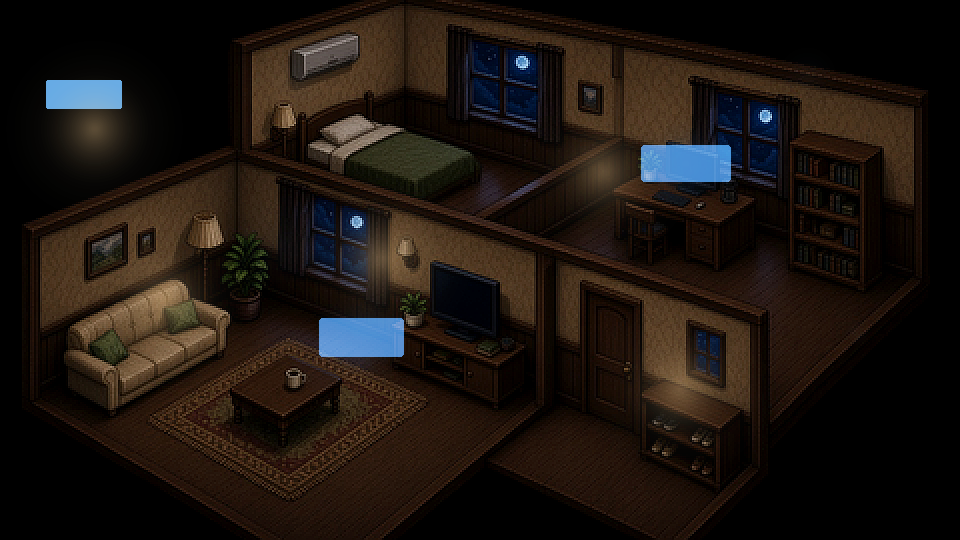
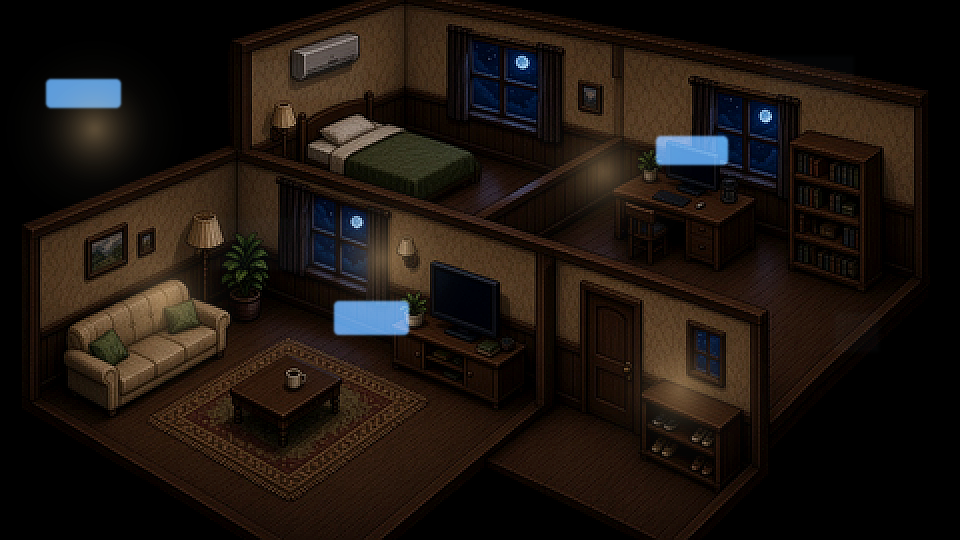
Clip screen blooms to panels; hide window glow when room is off
TV/monitor/AC use clipped radial fills only (no external Glow). Moon
only when a device is on; scene clipped to cutaway bounds. Nudge TV and
monitor anchors; refresh house-pilot previews.

diff --git a/Sources/MijiaBarApp/HouseView.swift b/Sources/MijiaBarApp/HouseView.swift
@@ -147,6 +147,8 @@ struct HouseRoomOverlays: View {
     let lighting: RoomModuleLighting
     let artSize: CGSize
 
+    private var roomActive: Double { max(lighting.lampLevels.max() ?? 0, lighting.tv, lighting.ac) }
+
     var body: some View {
         ZStack {
             windowMoon
@@ -155,23 +157,20 @@ struct HouseRoomOverlays: View {
             lampGlows
             warmWash
         }
+        .frame(width: artSize.width, height: artSize.height)
+        .clipped()
         .allowsHitTesting(false)
     }
 
-    /// 月光只在窗框内淡淡铺开，避免大块漂浮蓝光
-    private var windowStrength: Double {
-        let active = max(lighting.lampLevels.max() ?? 0, lighting.tv, lighting.ac)
-        return min(0.32, 0.04 + active * 0.14 + lighting.cozy * 0.08)
-    }
-
+    /// 仅在本室有设备亮时、窗框内淡淡月光（全关时不画，避免漂浮蓝光）
     @ViewBuilder private var windowMoon: some View {
-        if let r = anchors.window?.cgRect {
-            let k = windowStrength
+        if roomActive > 0.01, let r = anchors.window?.cgRect {
+            let k = min(0.22, 0.06 + roomActive * 0.14)
             let w = r.width * artSize.width, h = r.height * artSize.height
-            Ellipse()
-                .fill(RadialGradient(colors: [Color(red: 0.62, green: 0.78, blue: 0.92).opacity(0.28), .clear],
-                                     center: .center, startRadius: 0, endRadius: max(w, h) * 0.42))
-                .frame(width: w * 0.92, height: h * 0.88)
+            RoundedRectangle(cornerRadius: 2)
+                .fill(RadialGradient(colors: [Color(red: 0.62, green: 0.78, blue: 0.92).opacity(0.22), .clear],
+                                     center: .center, startRadius: 0, endRadius: max(w, h) * 0.48))
+                .frame(width: w, height: h)
                 .position(x: r.midX * artSize.width, y: r.midY * artSize.height)
                 .blendMode(.screen).opacity(k)
         }
@@ -180,29 +179,32 @@ struct HouseRoomOverlays: View {
     @ViewBuilder private var acGlow: some View {
         if lighting.ac > 0, let r = anchors.ac?.cgRect {
             let k = lighting.ac
-            ZStack {
-                RoundedRectangle(cornerRadius: 3)
-                    .fill(LinearGradient(colors: [Theme.cool.opacity(0.45), Theme.cool.opacity(0.22)], startPoint: .top, endPoint: .bottom))
-                Glow(Theme.cool, 0.22 * k, diameter: 36, softness: 28)
-            }
-            .frame(width: r.width * artSize.width, height: r.height * artSize.height)
-            .position(x: r.midX * artSize.width, y: r.midY * artSize.height)
-            .blendMode(.screen).opacity(0.55 * k)
+            let w = r.width * artSize.width, h = r.height * artSize.height
+            RoundedRectangle(cornerRadius: 3)
+                .fill(RadialGradient(colors: [Theme.cool.opacity(0.32 * k), Theme.cool.opacity(0.12 * k), .clear],
+                                     center: .top, startRadius: 0, endRadius: h * 1.2))
+                .frame(width: w, height: h)
+                .clipShape(RoundedRectangle(cornerRadius: 3))
+                .position(x: r.midX * artSize.width, y: r.midY * artSize.height)
+                .blendMode(.screen)
         }
     }
 
     @ViewBuilder private var tvGlow: some View {
         if lighting.tv > 0, let r = anchors.tv?.cgRect {
             let k = lighting.tv
-            ZStack {
-                RoundedRectangle(cornerRadius: 2)
-                    .fill(LinearGradient(colors: [Color(red: 0.35, green: 0.62, blue: 0.92).opacity(0.5), Color(red: 0.18, green: 0.42, blue: 0.72).opacity(0.35)],
-                                         startPoint: .topLeading, endPoint: .bottomTrailing))
-                Glow(Theme.cool, 0.28 * k, diameter: min(r.width * artSize.width * 1.1, 52), softness: 32)
-            }
-            .frame(width: r.width * artSize.width, height: r.height * artSize.height)
-            .position(x: r.midX * artSize.width, y: r.midY * artSize.height)
-            .blendMode(.screen).opacity(0.72 * k)
+            let w = r.width * artSize.width, h = r.height * artSize.height
+            RoundedRectangle(cornerRadius: 4)
+                .fill(RadialGradient(colors: [
+                    Color(red: 0.48, green: 0.72, blue: 0.96).opacity(0.38 * k),
+                    Color(red: 0.22, green: 0.48, blue: 0.78).opacity(0.2 * k),
+                    Color(red: 0.12, green: 0.32, blue: 0.62).opacity(0.08 * k),
+                ], center: .center, startRadius: 0, endRadius: max(w, h) * 0.58))
+                .overlay(RoundedRectangle(cornerRadius: 4).stroke(Color.white.opacity(0.1 * k), lineWidth: 0.5))
+                .frame(width: w, height: h)
+                .clipShape(RoundedRectangle(cornerRadius: 4))
+                .position(x: r.midX * artSize.width, y: r.midY * artSize.height)
+                .blendMode(.screen)
         }
     }
 
@@ -223,7 +225,7 @@ struct HouseRoomOverlays: View {
     }
 
     private var warmWash: some View {
-        let k = max(lighting.lampLevels.max() ?? 0, lighting.tv * 0.45, lighting.ac * 0.25)
+        let k = lighting.lampLevels.max() ?? 0
         return LinearGradient(colors: [Color(red: 1, green: 0.72, blue: 0.38).opacity(0.18 * k), .clear], startPoint: .bottom, endPoint: .top)
             .frame(height: artSize.height * 0.18).frame(maxHeight: .infinity, alignment: .bottom)
             .blendMode(.screen)
@@ -266,8 +268,10 @@ struct HouseCutawaySceneView: View {
             }
         }
         .frame(width: artSize.width, height: artSize.height)
+        .clipped()
         .scaleEffect(displayScale, anchor: .top)
         .frame(width: artSize.width * displayScale, height: artSize.height * displayScale)
+        .clipped()
     }
 
     @ViewBuilder private var baseArt: some View {

diff --git a/scripts/preview-house-snapshots.py b/scripts/preview-house-snapshots.py
@@ -29,35 +29,36 @@ def radial(w: int, h: int, cx: float, cy: float, r: float, color: tuple[int, int
 
 def window_glow(out: Image.Image, win: dict, strength: float) -> Image.Image:
     w, h = out.size
-    wx = (win["x"] + win["w"] / 2) * w
-    wy = (win["y"] + win["h"] / 2) * h
-    rw = win["w"] * w * 0.42
-    return Image.alpha_composite(out, radial(w, h, wx, wy, rw, (158, 198, 228, int(45 * strength))))
+    x0, y0 = int(win["x"] * w), int(win["y"] * h)
+    x1, y1 = int((win["x"] + win["w"]) * w), int((win["y"] + win["h"]) * h)
+    layer = Image.new("RGBA", (w, h), (0, 0, 0, 0))
+    ImageDraw.Draw(layer).rectangle((x0, y0, x1, y1), fill=(158, 198, 228, int(38 * strength)))
+    return Image.alpha_composite(out, layer.filter(ImageFilter.GaussianBlur(2)))
+
+
+def screen_bloom(out: Image.Image, rect: dict, alpha: int) -> Image.Image:
+    w, h = out.size
+    x0, y0 = int(rect["x"] * w), int(rect["y"] * h)
+    x1, y1 = int((rect["x"] + rect["w"]) * w), int((rect["y"] + rect["h"]) * h)
+    layer = Image.new("RGBA", (w, h), (0, 0, 0, 0))
+    ImageDraw.Draw(layer).rounded_rectangle((x0, y0, x1, y1), radius=4, fill=(90, 155, 220, alpha))
+    return ImageChops.screen(out, layer.filter(ImageFilter.GaussianBlur(1)))
 
 
 def apply_module(out: Image.Image, mod: dict, mode: str) -> Image.Image:
-    w, h = out.size
-    active = 1.0 if mode == "night" else 0.0
-    cozy = 1.0 if mode == "night" else 0.1
-    win_s = min(0.32, 0.04 + active * 0.14 + cozy * 0.08)
-    if mod.get("window"):
-        out = window_glow(out, mod["window"], win_s)
     if mode != "night":
         return out
+    active = 1.0
+    if mod.get("window") and active > 0:
+        out = window_glow(out, mod["window"], min(0.22, 0.06 + active * 0.14))
     tv = mod.get("tv")
     if tv:
-        tx, ty, tw, th = tv["x"] * w, tv["y"] * h, tv["w"] * w, tv["h"] * h
-        scr = Image.new("RGBA", (w, h), (0, 0, 0, 0))
-        ImageDraw.Draw(scr).rounded_rectangle((tx, ty, tx + tw, ty + th), radius=3, fill=(70, 140, 210, 95))
-        out = ImageChops.screen(out, scr)
-        out.alpha_composite(radial(w, h, tx + tw / 2, ty + th / 2, tw * 0.65, (90, 155, 220, 55)))
+        out = screen_bloom(out, tv, 72)
     ac = mod.get("ac")
     if ac:
-        ax, ay, aw, ah = ac["x"] * w, ac["y"] * h, ac["w"] * w, ac["h"] * h
-        scr = Image.new("RGBA", (w, h), (0, 0, 0, 0))
-        ImageDraw.Draw(scr).rounded_rectangle((ax, ay, ax + aw, ay + ah), radius=2, fill=(100, 170, 230, 70))
-        out = ImageChops.screen(out, scr)
+        out = screen_bloom(out, ac, 48)
     for lamp in mod.get("lamps", []):
+        w, h = out.size
         out.alpha_composite(radial(w, h, lamp["x"] * w, lamp["y"] * h, 62, (255, 205, 140, 75)))
         out.alpha_composite(radial(w, h, lamp["x"] * w, lamp["y"] * h, 110, (255, 225, 170, 35)))
     return out
@@ -66,8 +67,9 @@ def apply_module(out: Image.Image, mod: dict, mode: str) -> Image.Image:
 def compose(mode: str) -> Image.Image:
     meta = json.loads(ANCHORS.read_text())
     out = Image.open(BASE).convert("RGBA")
-    for mod in meta["modules"].values():
-        out = apply_module(out, mod, mode)
+    if mode == "night":
+        for mod in meta["modules"].values():
+            out = apply_module(out, mod, mode)
     cozy = 1.0 if mode == "night" else 0.1
     dim = Image.new("RGBA", out.size, (0, 0, 0, int(255 * (1 - cozy) * 0.8)))
     return ImageChops.multiply(out, Image.alpha_composite(Image.new("RGBA", out.size, (255, 255, 255, 255)), dim))

diff --git a/scripts/gen-house-cutaway-art.py b/scripts/gen-house-cutaway-art.py
@@ -19,20 +19,20 @@ CUTAWAY = {
     "modules": {
         "living": {
             "lamps": [{"x": 0.172, "y": 0.555}, {"x": 0.398, "y": 0.478}],
-            "tv": {"x": 0.332, "y": 0.588, "w": 0.088, "h": 0.072},
-            "window": {"x": 0.205, "y": 0.395, "w": 0.175, "h": 0.115},
+            "tv": {"x": 0.348, "y": 0.558, "w": 0.078, "h": 0.062},
+            "window": {"x": 0.218, "y": 0.402, "w": 0.158, "h": 0.098},
             "label": {"x": 0.06, "y": 0.54},
         },
         "bedroom": {
             "lamps": [{"x": 0.098, "y": 0.238}],
             "ac": {"x": 0.048, "y": 0.148, "w": 0.078, "h": 0.052},
-            "window": {"x": 0.228, "y": 0.098, "w": 0.155, "h": 0.095},
+            "window": {"x": 0.262, "y": 0.112, "w": 0.118, "h": 0.072},
             "label": {"x": 0.04, "y": 0.04},
         },
         "study": {
             "lamps": [{"x": 0.628, "y": 0.318}],
-            "tv": {"x": 0.668, "y": 0.268, "w": 0.092, "h": 0.068},
-            "window": {"x": 0.788, "y": 0.092, "w": 0.105, "h": 0.095},
+            "tv": {"x": 0.684, "y": 0.252, "w": 0.074, "h": 0.052},
+            "window": {"x": 0.798, "y": 0.102, "w": 0.092, "h": 0.078},
             "label": {"x": 0.52, "y": 0.04},
         },
         "generic": {
